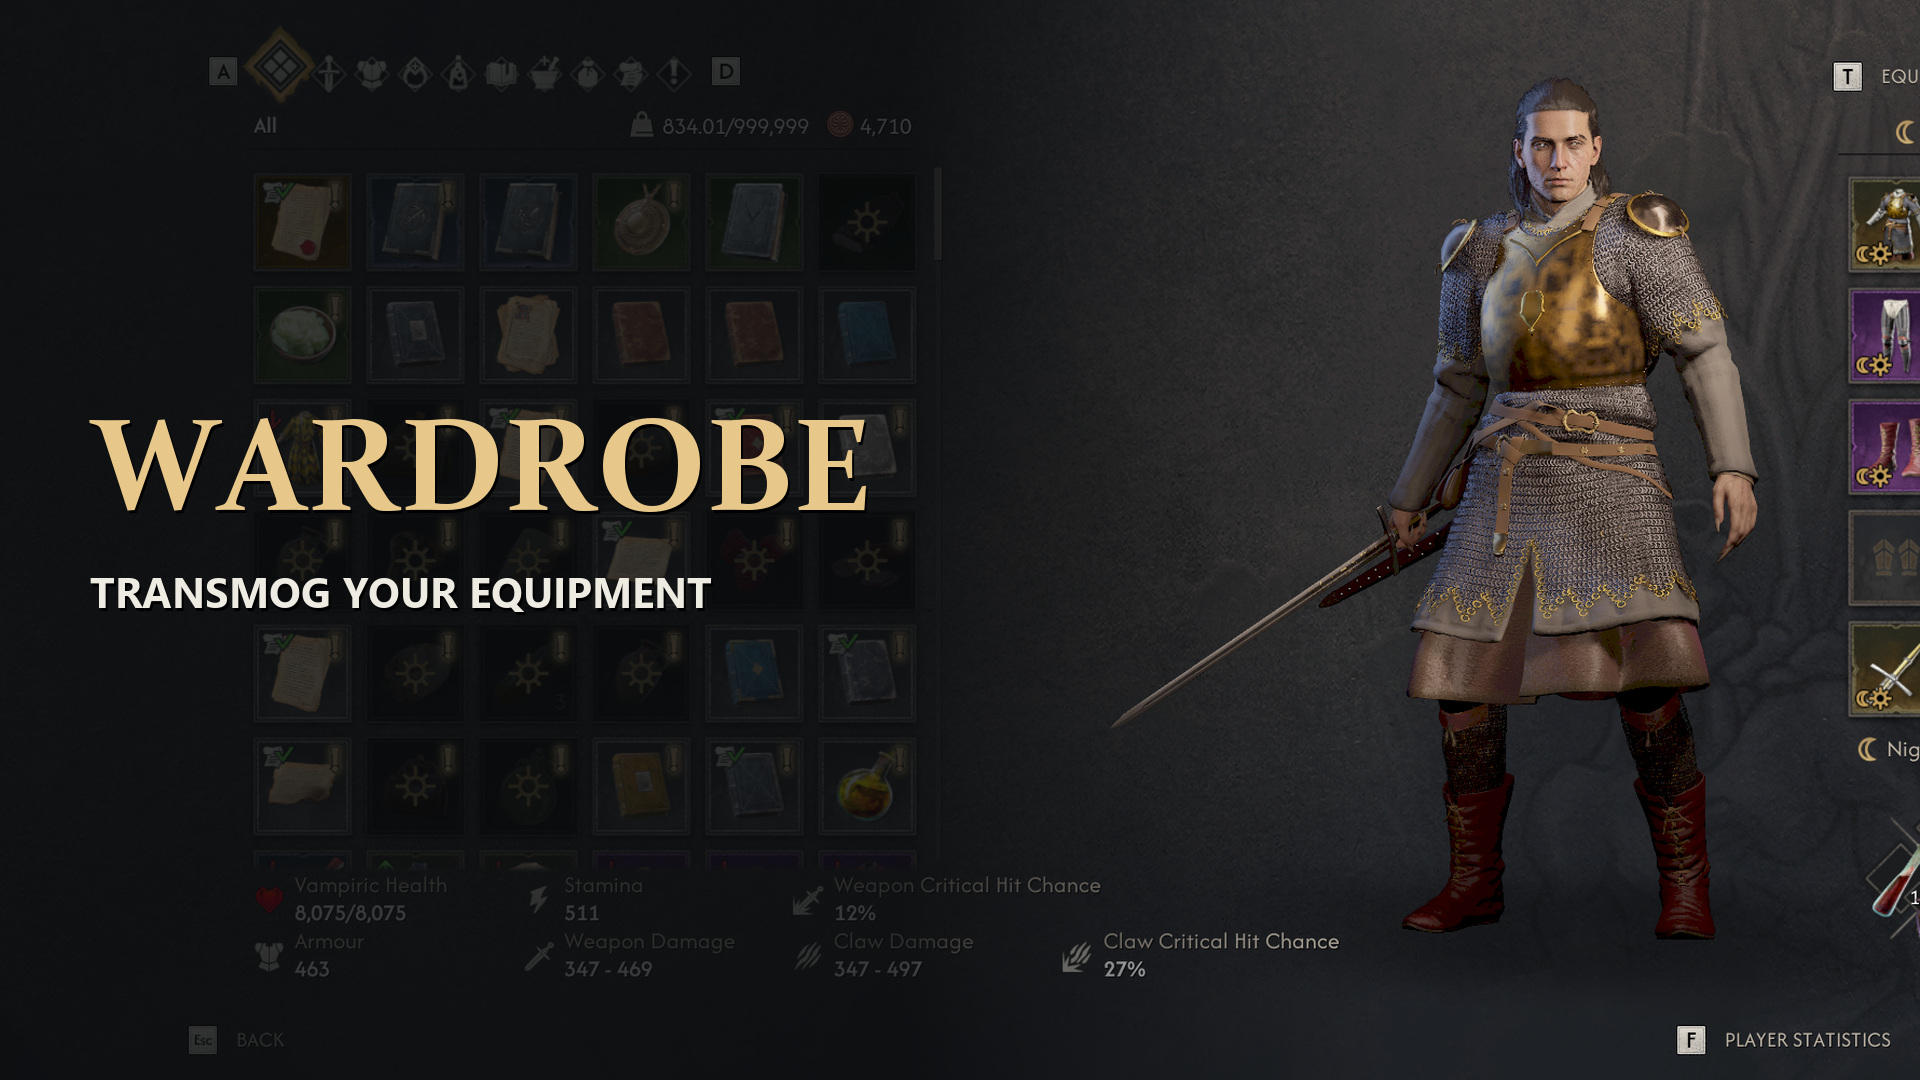
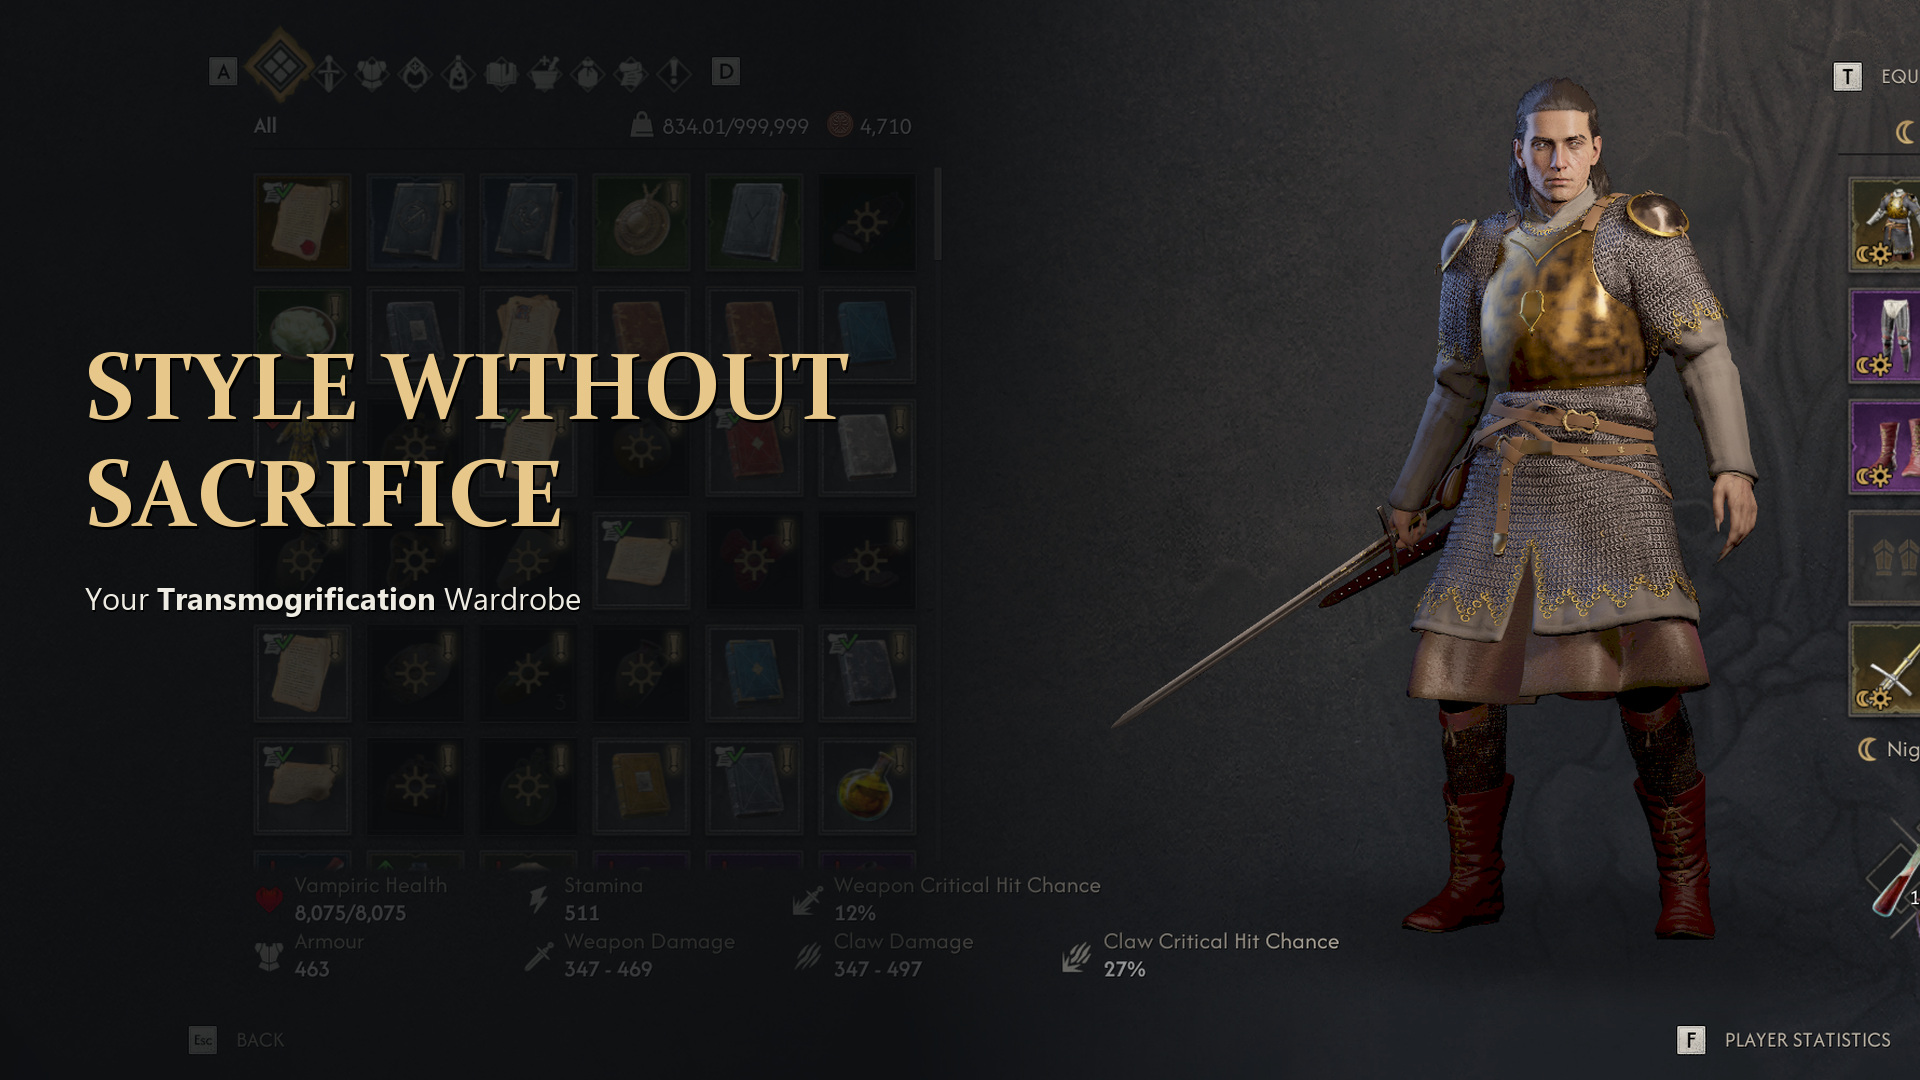
Rename mod to Style Without Sacrifice

Changed region(s): [[0.0312, 0.3056, 0.4688, 0.4889], [0.0312, 0.5194, 0.375, 0.5806]]

diff --git a/native/main.cpp b/native/main.cpp
@@ -127,7 +127,7 @@ static_assert(sizeof(CppUserModBase)==192);
 static_assert(sizeof(Unreal::Hook::FCallbackOptions)==72);
 class WardrobeMod final:public CppUserModBase {
 public:
-    WardrobeMod(){ModName=L"Wardrobe - Transmog Your Equipment";ModVersion=L"0.1.0";ModAuthors=L"my-mods";ModDescription=L"An independent wardrobe tab with separate day and night outfits.";}
+    WardrobeMod(){ModName=L"Style Without Sacrifice - Your Transmogrification Wardrobe";ModVersion=L"0.1.0";ModAuthors=L"my-mods";ModDescription=L"An independent wardrobe tab with separate day and night outfits.";}
     void on_lua_start(StringViewType name,LuaMadeSimple::Lua& lua,LuaMadeSimple::Lua&,LuaMadeSimple::Lua&,LuaMadeSimple::Lua*)override{
         if(name!=L"WardrobeTransmog")return;
         lua.register_function("_WCConfigure",[](const auto& l){Wardrobe::Settings s;s.enabled=l.get_integer(1)!=0;s.openKey=static_cast<unsigned>(std::clamp<int64_t>(l.get_integer(1),0,3));s.debugLogging=l.get_integer(1)!=0;Wardrobe::configure(s);return 0;});

diff --git a/README.md b/README.md
@@ -1,4 +1,4 @@
-# Wardrobe - Transmog Your Equipment
+# Style Without Sacrifice - Your Transmogrification Wardrobe
 
 Choose how your equipment looks from a dedicated **Wardrobe** tab in The Blood of Dawnwalker. Your equipped items and their stats stay in place.
 
@@ -8,7 +8,7 @@ Open Wardrobe with **End**, or select its tab immediately after **Inventory** in
 
 ## Installation
 
-- **Vortex:** Install `Wardrobe-Transmog-Your-Equipment.zip` through Vortex, enable it and deploy.
+- **Vortex:** Install `Style-Without-Sacrifice.zip` through Vortex, enable it and deploy.
 - **Manual:** Copy `Data/WardrobeTransmog` into `The Blood of Dawnwalker/Dawnwalker/Binaries/Win64/ue4ss/Mods`, preserving the folder structure.
 
 ## Dependencies
@@ -52,7 +52,7 @@ Logging defaults to Off. Turn it on in Mod Setting Menu to record player attachm
 
 ## Source
 
-Source is maintained at [my-mods/wardrobe-transmog](https://github.com/my-mods/wardrobe-transmog). See [BUILD.md](BUILD.md) for the pinned SDK and build steps.
+Source is maintained at [my-mods/style-without-sacrifice](https://github.com/my-mods/style-without-sacrifice). See [BUILD.md](BUILD.md) for the pinned SDK and build steps.
 
 ## Inspiration
 

diff --git a/BUILD.md b/BUILD.md
@@ -13,7 +13,7 @@ cd build
 cpack -C Release -G ZIP
 ```
 
-The DLL is `build/Release/main.dll`. The archive is `build/Wardrobe-Transmog-Your-Equipment.zip`. Its explicit installation list includes the native DLL, Lua settings adapter, mod metadata, player documentation and license notices. It excludes personal settings and saved outfits.
+The DLL is `build/Release/main.dll`. The archive is `build/Style-Without-Sacrifice.zip`. Its explicit installation list includes the native DLL, Lua settings adapter, mod metadata, player documentation and license notices. It excludes personal settings and saved outfits.
 
 `native/UE4SS.def` lists the host exports needed to link this implementation. Building the SDK itself is not required. The running UE4SS installation must supply the imported exports and declared C++ interfaces. Do not substitute an import library from an unrelated SDK revision.
 
